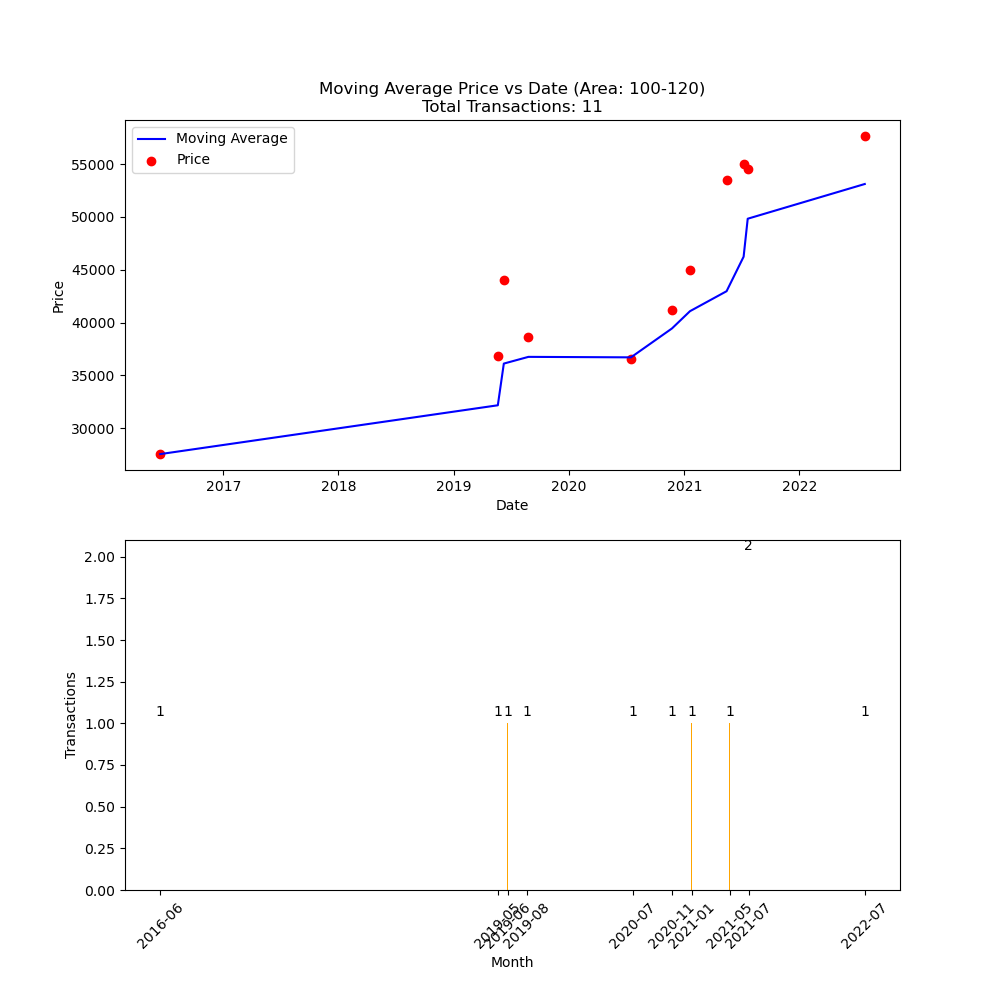
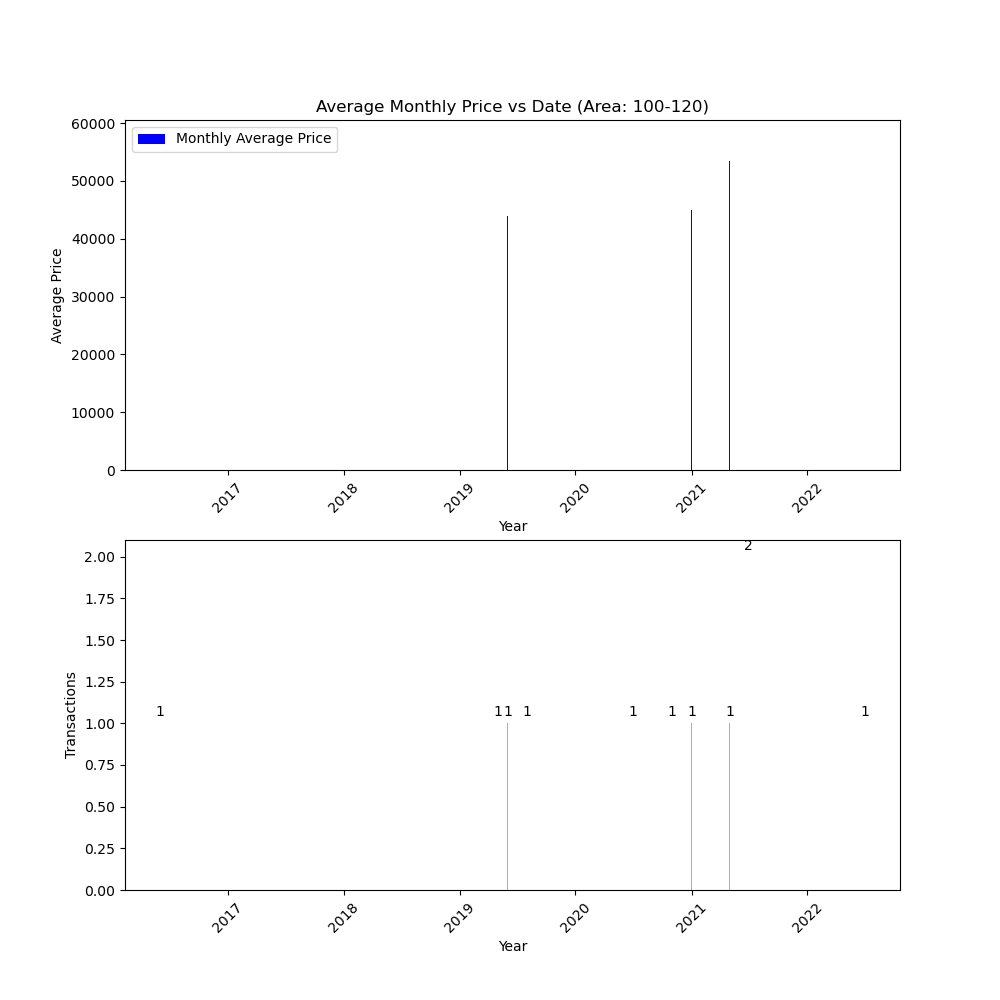
change axt

diff --git a/real_estate/zxtfyyc/plot.py b/real_estate/zxtfyyc/plot.py
@@ -49,38 +49,45 @@ for area_range in area_ranges:
     # 筛选符合面积范围的数据
     filtered_df = df[(df['area'] >= area_min) & (df['area'] < area_max)]
 
-    # 计算移动平均线
-    filtered_df.loc[:, 'moving_avg'] = filtered_df['price'].rolling(window=5, min_periods=1).mean()
+    # 确保有数据可供处理
+    if filtered_df.empty:
+        continue
+
+    # 计算每月的平均价格
+    monthly_avg_price_filtered = filtered_df.groupby('year_month')['price'].mean()
 
     # 绘制价格图表
     fig, axes = plt.subplots(nrows=2, figsize=(10, 10))
 
-    # 绘制移动平均线
-    axes[0].plot(filtered_df['date'], filtered_df['moving_avg'], label='Moving Average', color='blue')
+    # 绘制价格柱状图
+    axes[0].bar(monthly_avg_price_filtered.index.to_timestamp(), monthly_avg_price_filtered.values, color='blue', label='Monthly Average Price')
 
-    # 绘制价格散点图
-    axes[0].scatter(filtered_df['date'], filtered_df['price'], label='Price', color='red', marker='o')
+    # 设置x轴刻度为每年的1月
+    start_date = filtered_df['date'].min()
+    end_date = filtered_df['date'].max()
+    years = pd.date_range(start=start_date, end=end_date, freq='YS')
+    axes[0].set_xticks(years)
+    axes[0].set_xticklabels(years.year, rotation=45)
+
+    # 构建标题
+    title = f'Average Monthly Price vs Date (Area: {area_min}-{area_max})'
+    axes[0].set_title(title)
+    axes[0].set_xlabel('Year')
+    axes[0].set_ylabel('Average Price')
+    axes[0].legend(loc='upper left')
 
     # 计算每月成交数量并展示在图标题中
     monthly_transactions = filtered_df.groupby(filtered_df['date'].dt.to_period('M')).size()
     total_transactions = monthly_transactions.sum()
 
-    # 构建标题
-    title = f'Moving Average Price vs Date (Area: {area_min}-{area_max})\n'
-    title += f'Total Transactions: {total_transactions}'
-    axes[0].set_title(title)
-    axes[0].set_xlabel('Date')
-    axes[0].set_ylabel('Price')
-    axes[0].legend(loc='upper left')
-
     # 绘制成交量柱状图
     bars = axes[1].bar(monthly_transactions.index.to_timestamp(), monthly_transactions.values, color='orange')
-    axes[1].set_xlabel('Month')
+    axes[1].set_xlabel('Year')
     axes[1].set_ylabel('Transactions')
 
-    # 设置x轴刻度为所有月份
-    axes[1].set_xticks(monthly_transactions.index.to_timestamp())
-    axes[1].set_xticklabels(monthly_transactions.index.strftime('%Y-%m'), rotation=45)
+    # 设置x轴刻度为每年的1月
+    axes[1].set_xticks(years)
+    axes[1].set_xticklabels(years.year, rotation=45)
 
     # 在每个柱子中间添加数值标签
     for bar in bars:
@@ -121,7 +128,7 @@ for image_path in images:
         y_offset += img.height
 
 # 创建字体对象
-font_path = "C:\Windows\Fonts\simkai.ttf"  # 替换为您系统中的英文字体文件路径
+font_path = "C:\\Windows\\Fonts\\simkai.ttf"  # 替换为您系统中的英文字体文件路径
 font_size = 36
 title_text = current_community
 title_font = ImageFont.truetype(font_path, font_size)
